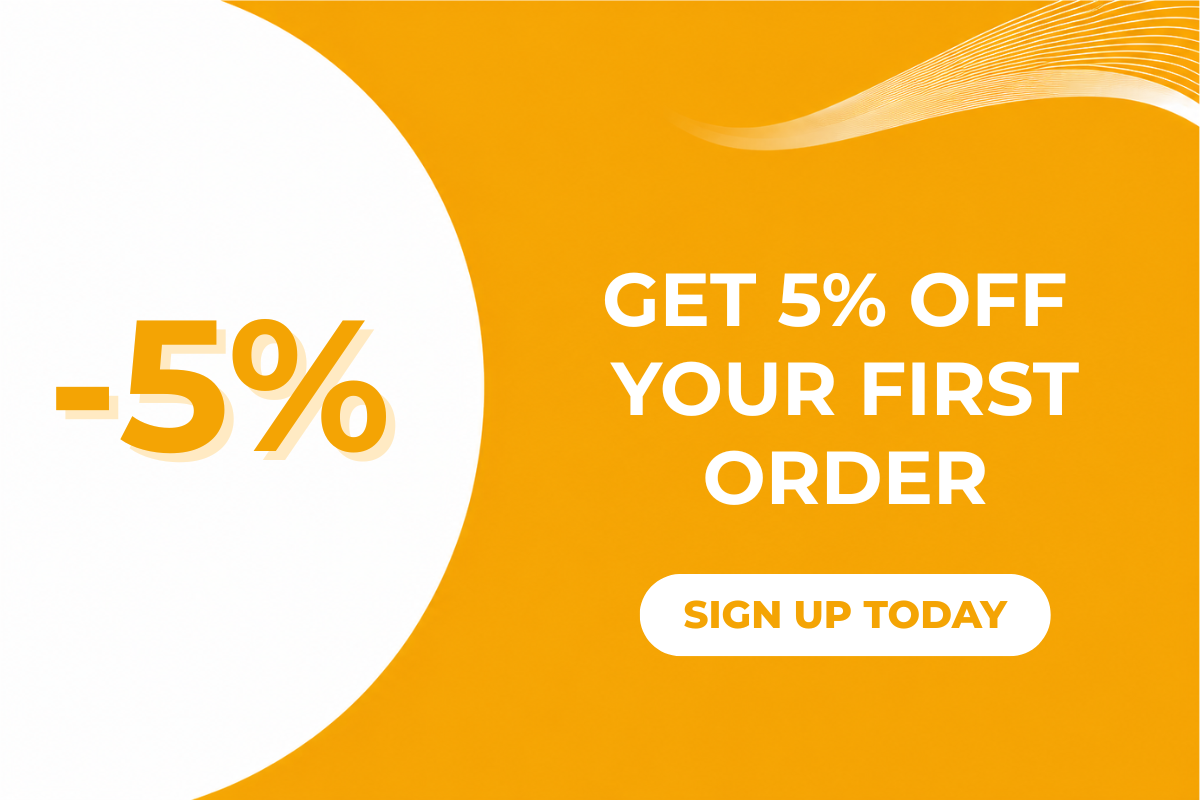
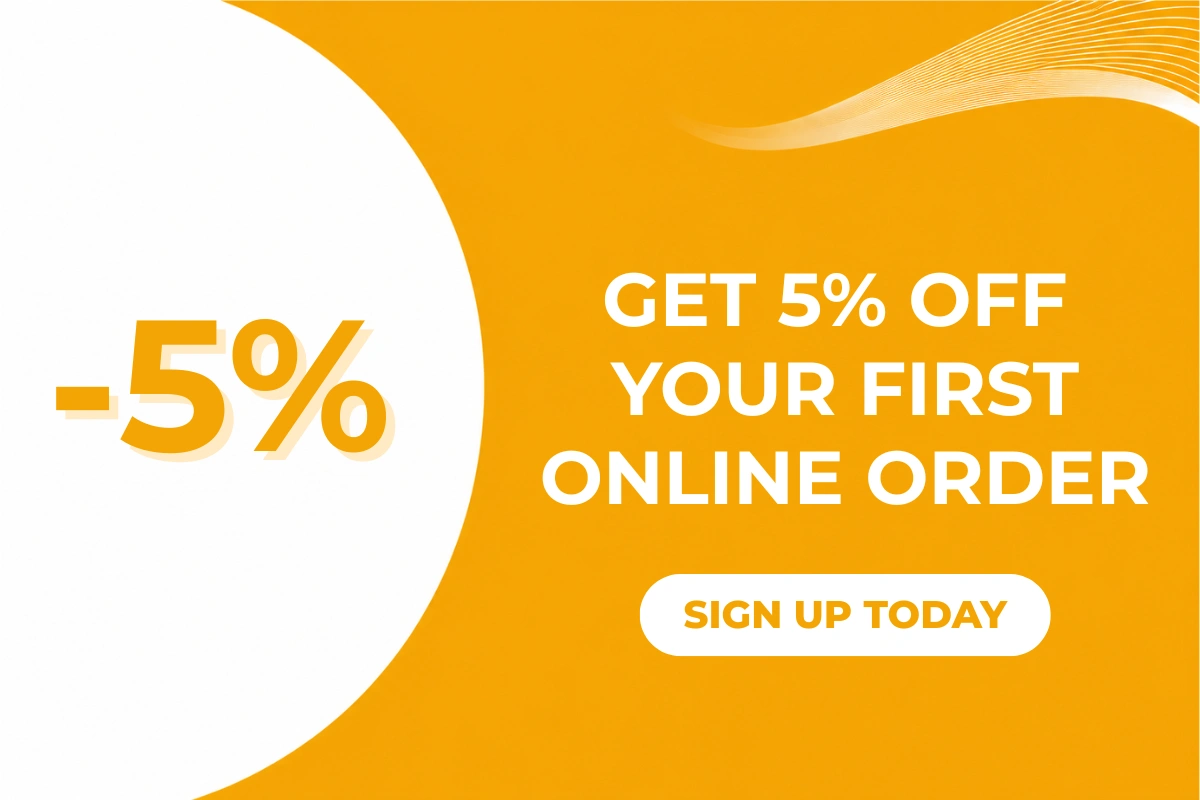
worked on about us page

diff --git a/about.html b/about.html
@@ -69,8 +69,8 @@
                 <span class="sky-apart__number" aria-hidden="true">1.</span>
                 <img src="assets/icons/features-icons/delivery-icon.svg" alt="" class="sky-apart__icon" width="40" height="40" aria-hidden="true">
               </div>
-              <h3 class="sky-apart__heading">[ADD TEXT]</h3>
-              <p class="sky-apart__desc">Orders placed before 2&nbsp;pm on in-stock items ship the same day from our Daventry warehouse — so your production schedule stays on track.</p>
+              <h3 class="sky-apart__heading">Reliable Supply,<br>On Your Schedule</h3>
+              <p class="sky-apart__desc">Stock when you need it, in the format you want, so your brewery keeps running without delays.</p>
             </li>
 
             <li class="sky-apart__item">
@@ -78,8 +78,8 @@
                 <span class="sky-apart__number" aria-hidden="true">2.</span>
                 <img src="assets/icons/features-icons/price-tag-icon.svg" alt="" class="sky-apart__icon" width="40" height="40" aria-hidden="true">
               </div>
-              <h3 class="sky-apart__heading">[ADD TEXT]</h3>
-              <p class="sky-apart__desc">We work directly with maltsters, chemical manufacturers, and equipment fabricators — cutting out the middleman and passing the margin back to you.</p>
+              <h3 class="sky-apart__heading">Direct Sourcing,<br>Competitive Pricing</h3>
+              <p class="sky-apart__desc">We make key products ourselves and source the rest globally, so you get strong pricing and flexible payment options.</p>
             </li>
 
             <li class="sky-apart__item">
@@ -87,8 +87,8 @@
                 <span class="sky-apart__number" aria-hidden="true">3.</span>
                 <img src="assets/icons/features-icons/technical-support-icon.svg" alt="" class="sky-apart__icon" width="40" height="40" aria-hidden="true">
               </div>
-              <h3 class="sky-apart__heading">[ADD TEXT]</h3>
-              <p class="sky-apart__desc">Our team includes qualified brewmasters and chemical engineers. When you have a process question, you get a real answer — not a spec sheet forwarded from the manufacturer.</p>
+              <h3 class="sky-apart__heading">Technical Expertise,<br>You Can Rely On</h3>
+              <p class="sky-apart__desc">Decades of brewing experience across ingredients, chemicals and equipment, helping you run better and brew consistently.</p>
             </li>
 
           </ul>
@@ -112,16 +112,17 @@
 
         <div class="trusted__copy">
           <p class="eyebrow">Worldwide</p>
-          <h2 id="trusted-heading">Trusted by Brewers<br>across the Globe</h2>
-          <p>From small craft operations to large-scale industrial breweries, SKY AGRO supplies the ingredients, chemicals, and equipment that keep production running smoothly. Our customers span the UK, Europe, and beyond.</p>
+          <h2 id="trusted-heading">Global Supply,<br>Local Service</h2>
+          <p>We supply breweries across three continents and more than fifteen countries. In the United Kingdom alone, we work with over thirty breweries, from small craft producers to large industrial operations.</p>
+          <p>Whether you need a single pallet or full container loads, our approach stays the same. Orders are handled with clear specifications, consistent quality, and dependable lead times. We take care of sourcing, coordination, and logistics, managing the detail behind the scenes, ensuring everything arrives exactly as expected.</p>
           <div class="trusted__stats">
-            <div class="trusted__stat">
-              <span class="trusted__stat-number">15+</span>
-              <span class="trusted__stat-label">Countries</span>
-            </div>
             <div class="trusted__stat">
               <span class="trusted__stat-number">30+</span>
               <span class="trusted__stat-label">Breweries in the UK</span>
+            </div>
+            <div class="trusted__stat">
+              <span class="trusted__stat-number">15+</span>
+              <span class="trusted__stat-label">Countries</span>
             </div>
           </div>
         </div>
@@ -134,7 +135,8 @@
       <div class="container origin-band__inner">
 
         <div class="origin-band__intro">
-          <h2 id="origin-heading">Everything started with <em>Malt.</em></h2>
+          <p class="eyebrow">Our Story</p>
+          <h2 id="origin-heading">Our Journey<br>Started with Malt</h2>
           <p>We founded SKY AGRO in 2024 to supply brewers with high-quality malt, working directly with established malting facilities producing to our specification from barley we source. Within our first year, we had built distribution across parts of Europe and a significant export programme into Latin America and Asia, serving craft and industrial brewers alike.</p>
           <p>In the course of that work, a pattern emerged. Brewers were managing fragmented supplier bases across malt, chemicals, and equipment, each relationship operating in isolation. Sourcing was slower and more difficult than it needed to be.</p>
           <p>We expanded in response. SKY AGRO now operates three specialist divisions, covering ingredients, chemicals, and equipment, coordinated through a single commercial relationship.</p>

diff --git a/css/pages.css b/css/pages.css
@@ -1274,8 +1274,8 @@
   align-items: center;
   min-height: clamp(24rem, 38vw, 37.5rem);
   background:
-    linear-gradient(to right, rgba(10, 20, 14, 0.80) 0%, rgba(10, 20, 14, 0.52) 55%, rgba(10, 20, 14, 0.18) 100%),
-    url('../assets/about/about-us-hero.webp') center / cover no-repeat;
+    linear-gradient(to right, rgba(10, 20, 14, 0.84) 0%, rgba(10, 20, 14, 0.58) 56%, rgba(10, 20, 14, 0.18) 100%),
+    url('../assets/home/about-us-banner.webp') center / cover no-repeat;
   color: var(--color-white);
   padding-block-start: calc(var(--section-pad-y) - var(--space-6));
   padding-block-end: calc(var(--section-pad-y) - var(--space-4));
@@ -1421,14 +1421,14 @@
   max-width: 28ch;
   margin-inline: auto;
   line-height: var(--lh-body);
-  text-align: left;
+  text-align: center;
 }
 
 /* Trusted by Brewers */
 
 .trusted {
   padding-block: var(--section-pad-y);
-  background-color: var(--color-cream-soft);
+  background-color: var(--color-cream);
 }
 
 .trusted__inner {
@@ -1464,8 +1464,7 @@
 }
 
 .trusted__copy p {
-  max-width: 52ch;
-  color: var(--color-ink-soft);
+  max-width: 55ch;
 }
 
 .trusted__copy .eyebrow {
@@ -1490,11 +1489,13 @@
   display: flex;
   flex-direction: column;
   gap: var(--space-1);
+  align-items: center;
+  text-align: center;
 }
 
 .trusted__stat-number {
   font-size: var(--fs-h2);
-  font-weight: var(--fw-bold);
+  font-weight: var(--fw-semibold);
   color: var(--color-gold);
   line-height: 1;
   letter-spacing: var(--ls-tight);
@@ -1504,7 +1505,7 @@
 .trusted__stat-label {
   font-size: var(--fs-small);
   font-weight: var(--fw-medium);
-  color: var(--color-ink-soft);
+  color: var(--color-gold);
   text-transform: uppercase;
   letter-spacing: var(--ls-wide);
 }
@@ -1513,7 +1514,7 @@
 
 .origin-band {
   padding-block: var(--section-pad-y-lg);
-  background-color: var(--color-green-deep);
+  background-color: var(--color-green-dark);
   color: var(--color-white);
 }
 
@@ -1532,19 +1533,26 @@
 }
 
 .origin-band__intro h2 {
-  font-size: clamp(1.5rem, 1.5vw + 0.875rem, 1.875rem);
+  font-size: var(--fs-h2);
+  font-weight: var(--fw-bold);
+  line-height: var(--lh-snug);
+  letter-spacing: var(--ls-tight);
   color: var(--color-white);
   margin-block: 0 var(--space-5);
-}
-
-.origin-band__intro h2 em {
-  color: var(--color-gold);
-  font-style: normal;
 }
 
 .origin-band__intro p {
   color: rgba(255, 255, 255, 0.8);
   max-width: 48ch;
+}
+
+.origin-band__intro .eyebrow,
+.origin-band__intro .eyebrow::before {
+  color: var(--color-gold);
+}
+
+.origin-band__intro > p:not(.eyebrow) {
+  font-weight: var(--fw-medium);
 }
 
 /* Timeline */
@@ -1597,12 +1605,13 @@
   font-size: var(--fs-h5);
   font-weight: var(--fw-semibold);
   color: var(--color-white);
-  margin-block: 0 var(--space-2);
+  margin-block: 0 var(--space-1);
   line-height: var(--lh-normal);
 }
 
 .timeline__item p {
   font-size: var(--fs-body);
+  font-weight: var(--fw-medium);
   color: rgba(255, 255, 255, 0.75);
   margin: 0;
   max-width: 40ch;
@@ -1856,6 +1865,7 @@
 .prod-filter-callout {
   display: grid;
   gap: var(--space-3);
+  padding-inline-start: var(--space-2);
   padding-block-start: var(--space-5);
   border-top: 1px solid var(--color-rule);
 }
@@ -2103,17 +2113,11 @@
 }
 
 .product-hub-listing .prod-filter-callout__link svg {
-  display: none;
+  display: block;
 }
 
 .product-hub-listing .prod-filter-callout__link::after {
-  content: "\2192";
-  display: inline-flex;
-  align-items: center;
-  justify-content: center;
-  width: 1rem;
-  height: 1rem;
-  line-height: 1;
+  content: none;
 }
 
 /* Product card meta (EBC) */

diff --git a/products/kegs-packaging/index.html b/products/kegs-packaging/index.html
@@ -35,7 +35,7 @@
     <section class="page-hero product-category-hero product-category-hero--kegs">
       <div class="container page-hero__inner">
         <p class="eyebrow">SKY AGRO</p>
-        <h1>One-Way Kegs and Packaging</h1>
+        <h1>One-Way Kegs <br> and Packaging</h1>
         <p class="page-hero__lede">One-way kegs and cask packaging designed to protect your beer in distribution and ensure reliable dispense in the trade. Cost-effective formats that reduce handling, returns and logistics complexity.</p>
       </div>
     </section>

diff --git a/CHANGES.md b/CHANGES.md
@@ -2,3 +2,8 @@ Home featured-products tabs: added a subtle active-pill lift and fade-up panel t
 One Way Kegs and Cask Packaging listings: switched product card copy from centred to left-aligned for cleaner scanning across names, descriptions, and pricing.
 Home lower-section rhythm: changed the social band to light cream and the blog preview to darker cream so the background sequence reads more clearly between sections.
 Home promotions band: changed the “Discover Our Latest Deals” section background to light cream to match the social media section.
+About timeline band: changed background from `--color-green-deep` to `--color-green-dark` to reduce visual weight while keeping the section within the brand green palette.
+About story section: changed the heading to “Our Journey Started with Malt”, restored the standard H2 scale and weight in white, added the standard eyebrow label, and increased the intro copy weight for stronger hierarchy.
+About timeline items: reduced the gap between event headings and body copy, and increased timeline body text to `--fw-medium` to match the story intro paragraphs.
+About trusted section: split the main copy into two paragraphs so the service and logistics message reads as a separate point.
+Catalogue filter panels: matched all callout blocks to the malts panel by applying the left inset globally and restoring the proper SVG arrow icon instead of the faux text arrow in product hub listings.
